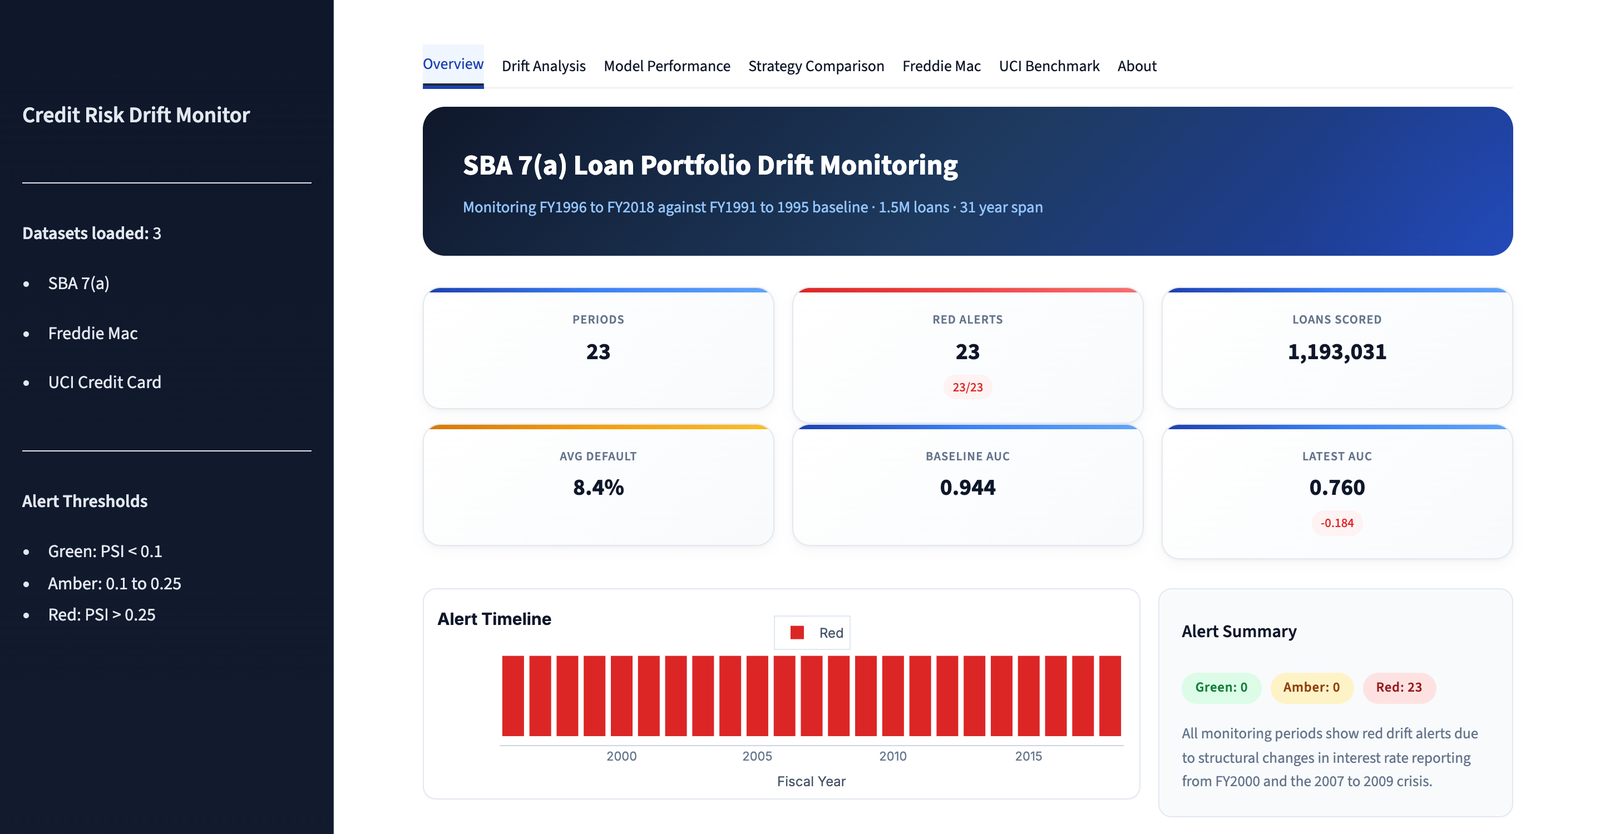
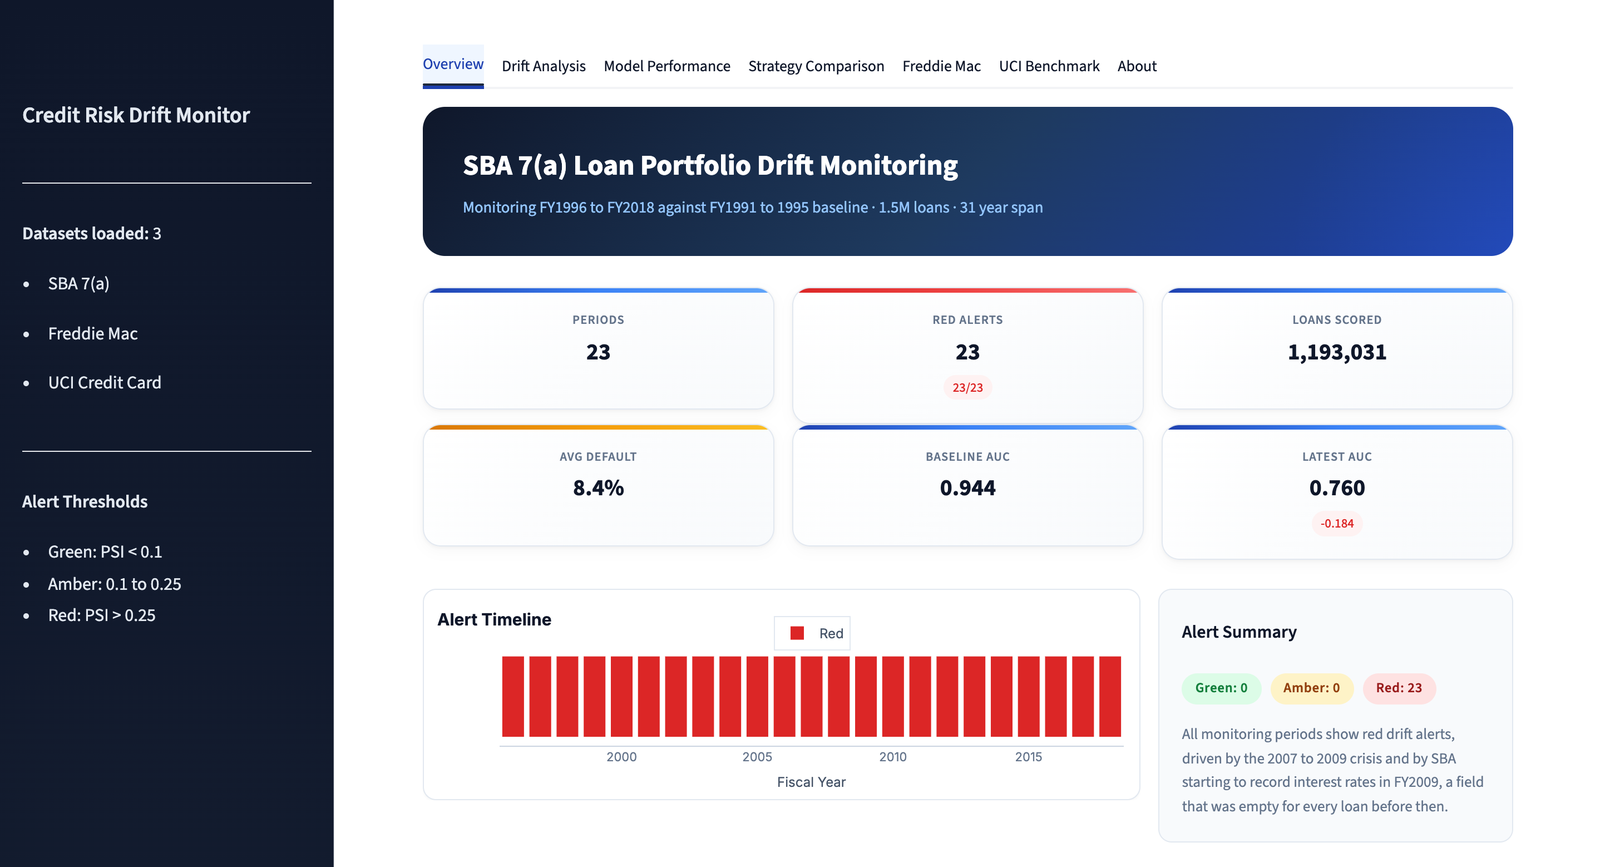
Correct when SBA began recording interest rates: FY2009, not FY2000
The dashboard, the walkthrough and the decisions log all said interest
rate data became available from FY2000. Checking the raw FOIA files,
InitialInterestRate is empty for 100% of loans through FY2008, 11.3%
empty in FY2009 and fully populated from FY2010. That matches the drift
replay, where the interest rate features sit outside the top drifters
until FY2009 and then jump to PSI 18 and stay flat.

Updates the Overview alert summary, WALKTHROUGH and docs/decisions.md,
and retakes the README hero screenshot so it shows the corrected text.

diff --git a/streamlit_app.py b/streamlit_app.py
@@ -760,8 +760,9 @@ with tabs[tab_idx]:
                 f'<span class="alert-badge alert-red">Red: {n_red}</span>'
                 "</div>"
                 "<div style='margin-top:16px; font-size:0.85rem; color:#64748b;'>"
-                "All monitoring periods show red drift alerts due to structural "
-                "changes in interest rate reporting from FY2000 and the 2007 to 2009 crisis."
+                "All monitoring periods show red drift alerts, driven by the 2007 to 2009 "
+                "crisis and by SBA starting to record interest rates in FY2009, a field "
+                "that was empty for every loan before then."
                 "</div>"
                 "</div>",
                 unsafe_allow_html=True,

diff --git a/docs/decisions.md b/docs/decisions.md
@@ -92,7 +92,7 @@ Every design choice and the reason behind it.
 
 ### NaN handling
 **Decision:** Fill NaN in numeric features with 0 after creating missing indicators. LR pipeline uses median imputation + StandardScaler; GBM handles NaN natively via HistGradientBoosting but all-NaN columns (like InitialInterestRate in FY1991-1999) need the 0 fill to prevent binning failure.
-**Reason:** InitialInterestRate is 100% missing in SBA files before FY2000. The missing indicator (interest_rate_missing) carries all the information; the 0 fill is a no-information default.
+**Reason:** InitialInterestRate is 100% missing in SBA files before FY2009. The missing indicator (interest_rate_missing) carries all the information; the 0 fill is a no-information default.
 
 ### Rare category grouping
 **Decision:** Categories below 0.5% of training rows grouped to "Other". Fitted on training window only. Unseen categories at scoring time → "Other".
@@ -139,7 +139,7 @@ Every design choice and the reason behind it.
 ### SBA drift replay results
 **Decision:** All 23 monitoring years (FY1996–FY2018) flagged as red alerts. This is correct — the GBM baseline trained on FY1991–1995 becomes increasingly outdated.
 **Key findings:**
-- **Dominant drift driver:** `interest_rate_missing` (PSI up to 18.4). Interest rate was 100% missing in FY1991–1999 reference data; it appears from FY2000 onward. `FixedorVariableInterestInd` (PSI 18.0) and `InitialInterestRate` (PSI 15.1) show the same pattern.
+- **Dominant drift driver:** `interest_rate_missing` (PSI up to 18.4). Interest rate was 100% missing for every loan through FY2008, 11% missing in FY2009, and fully populated from FY2010 onward. `FixedorVariableInterestInd` (PSI 18.0) and `InitialInterestRate` (PSI 15.1) show the same pattern.
 - **Score PSI timeline:** Starts at 0.003 (FY1996, green), rises to 0.12 (FY2005, amber), peaks at 1.1 (FY2012, red), then gradually declines.
 - **Crisis spike:** Default rates jump from 6–8% (FY1996–2004) to 22–28% (FY2006–2008), then drop to 3–5% (FY2010–2018). The 2007–2008 financial crisis is clearly visible.
 - **Model degradation:** GBM AUC falls from 0.9440 (FY1996) to 0.60–0.73 for FY1999–2018. The model loses about 20pp AUC over the monitoring window.
@@ -173,7 +173,7 @@ Every design choice and the reason behind it.
 - **Crisis resilience:** Even with retraining, FY2006–2010 AUCs are 0.63–0.80. The rolling window trains on pre-crisis data (FY1997–1999) during the crisis, limiting recovery. The model catches up after FY2011 when crisis-era data enters the training window.
 - **6 rejections:** Champions were kept at FY2000, FY2001, FY2007, FY2008, FY2015, FY2017 — cases where the challenger didn't beat the champion by the promotion threshold.
 
-**Reason:** Honest results. With pervasive drift (structural data changes from FY2000 interest rate availability), the drift trigger fires every year. The practical insight: for datasets with persistent structural drift, scheduled retraining is sufficient — the drift trigger adds no value over a fixed schedule. Drift-triggered retraining would add value in datasets where drift is episodic.
+**Reason:** Honest results. With pervasive drift (structural data change when interest rates began to be recorded in FY2009), the drift trigger fires every year. The practical insight: for datasets with persistent structural drift, scheduled retraining is sufficient — the drift trigger adds no value over a fixed schedule. Drift-triggered retraining would add value in datasets where drift is episodic.
 
 ### Final evaluation scored once
 **Decision:** FY2019–2021 scored exactly once with each strategy's final champion model (gbm_FY2009-2011 for the retrained strategies, the original baseline for "never"). Results never used to choose anything.

diff --git a/WALKTHROUGH.md b/WALKTHROUGH.md
@@ -51,7 +51,7 @@ Each year gets an alert level:
 | Amber | 0.10–0.25 | Moderate drift, investigate |
 | Red | > 0.25 | Significant drift, consider retraining |
 
-**Result**: All 23 monitoring years are red. The biggest driver is `interest_rate_missing` — interest rate data was 100% missing in the reference period (FY1991–1995) but became available from FY2000 onward. This structural data change, combined with the financial crisis and shifting lending standards, means the model is always operating in a fundamentally different environment than it was trained on.
+**Result**: All 23 monitoring years are red. The biggest driver is `interest_rate_missing` — interest rate data was 100% missing for every loan up to FY2008, 11% missing in FY2009, and fully populated from FY2010 onward. This structural data change, combined with the financial crisis and shifting lending standards, means the model is always operating in a fundamentally different environment than it was trained on.
 
 ### Stage 4: Retraining Strategies
 
@@ -99,7 +99,7 @@ The Streamlit dashboard visualises all of this in five interactive tabs:
 
 **Overview tab**: Start here. The KPI cards give the headline numbers. The alert timeline is all red — that's the honest result, not a bug. The default rate chart shows the crisis spike (27.5% in FY2007) and post-crisis normalisation (3–5% from FY2010).
 
-**Drift Analysis tab**: The PSI chart shows drift building slowly (FY1996–2005), then accelerating through the crisis and peaking at PSI 1.1 by FY2012. The heatmap reveals the structural cause — interest rate features dominate after FY2000.
+**Drift Analysis tab**: The PSI chart shows drift building slowly (FY1996–2005), then accelerating through the crisis and peaking at PSI 1.1 by FY2012. The heatmap reveals the structural cause — interest rate features dominate from FY2009.
 
 **Model Performance tab**: This is the key chart. The gray "Never Retrain" line falls and stays low. The blue/green retrained lines recover to 0.95+ by FY2013, once the rolling window catches up. During the crisis (FY2007–2010), even retrained models struggle — a universal limitation when the training data doesn't yet include the current regime.
 
